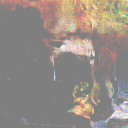
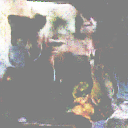
better generator but still bad

diff --git a/GAN.py b/GAN.py
@@ -144,9 +144,12 @@ class GANTrainer:
         torch.save(self.discriminator.state_dict(), discriminator_path)
 
 
-def generate_image(generatorPath, latent_dim):
 
-    #load the generator
+import torchvision.utils as vutils
+
+def generate_image(generatorPath, latent_dim, output_path):
+
+    # Load the generator
     generator = Generator(latent_dim)
     generator.load_state_dict(torch.load(generatorPath))
 
@@ -160,16 +163,6 @@ def generate_image(generatorPath, latent_dim):
     with torch.no_grad():  # No need to track gradients
         generated_image = generator(noise)
 
-    # Move the image to CPU and convert to NumPy
-    generated_image = generated_image.cpu().squeeze(0)
-    generated_image = (generated_image + 1) / 2  # Unnormalize if needed
-    generated_image = generated_image.permute(1, 2, 0).numpy()
-
-    # Clip the values to be between 0 and 1
-    generated_image = np.clip(generated_image, 0, 1)
-
-    plt.imshow(generated_image)
-    plt.axis('off')  # Turn off the axis
-    plt.show()
-    plt.imsave("sample.png", generated_image)
+    # Save the generated image as a PNG file
+    vutils.save_image(generated_image, output_path)
 
